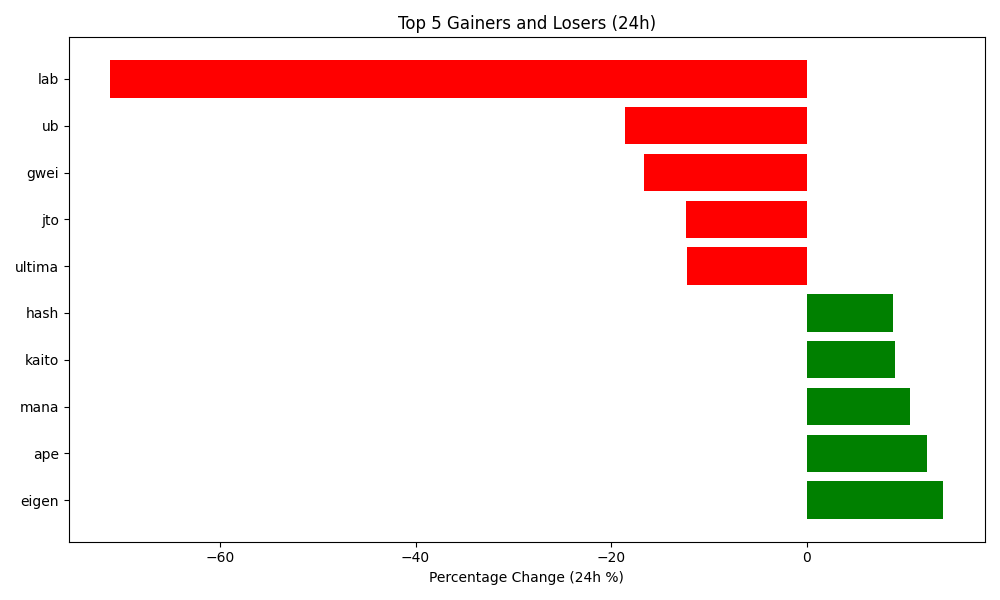
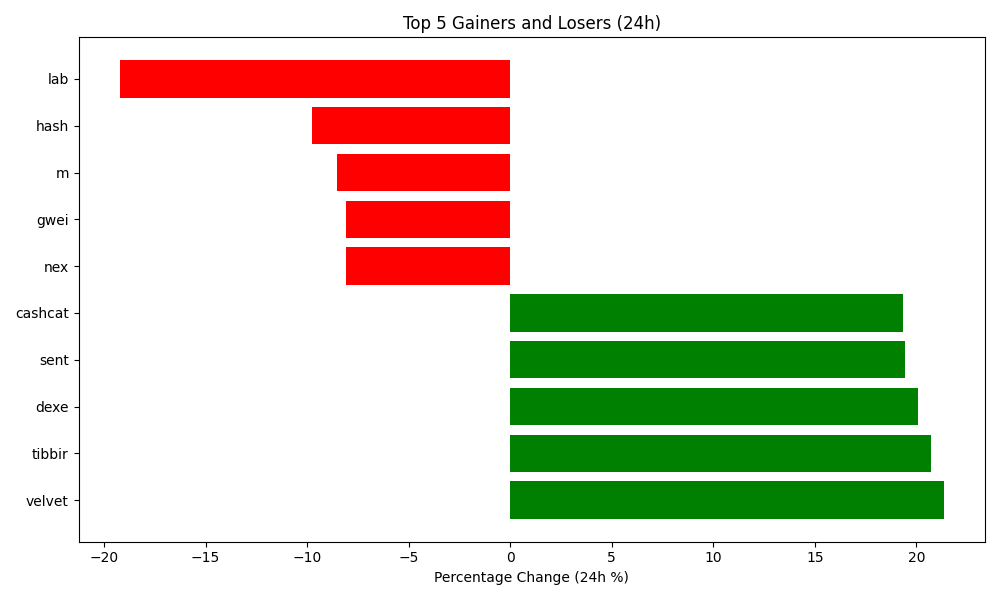
Auto-update crypto data and plot

diff --git a/README.md b/README.md
@@ -4,7 +4,7 @@ Author: Hitesh Agrawal
 This repository automatically tracks the top 5 gaining, top 5 losing, and top 5 highest volume cryptocurrencies in the last 24 hours using the CoinGecko API, Python, Matplotlib, and GitHub Actions updates the below content everyday at midnight.
 
 <!-- START_DYNAMIC_CONTENT -->
-Last updated: 2026-07-09 02:12 UTC
+Last updated: 2026-07-10 02:12 UTC
 
 ![Crypto Movers Plot](crypto_movers_plot.png)
 
@@ -12,33 +12,33 @@ Last updated: 2026-07-09 02:12 UTC
 
 | Rank | Coin | Price Change (24h %) | Volume (USD) | Current Price (USD) |
 | :--: | :--: | :------------------: | :----------: | :-----------------: |
-| 1 | eigen | 13.98% | $42,772,598 | $0.2474 |
-| 2 | ape | 12.34% | $64,869,686 | $0.1625 |
-| 3 | mana | 10.54% | $24,728,272 | $0.0748 |
-| 4 | kaito | 9.03% | $137,992,390 | $0.6693 |
-| 5 | hash | 8.81% | $14,123 | $0.0092 |
+| 1 | velvet | 21.35% | $10,060,548 | $0.4900 |
+| 2 | tibbir | 20.73% | $1,490,367 | $0.1197 |
+| 3 | dexe | 20.07% | $74,136,000 | $34.4500 |
+| 4 | sent | 19.45% | $506,874,777 | $0.0164 |
+| 5 | cashcat | 19.34% | $41,497,512 | $0.1143 |
 
 
 **👇 Top 5 Losers (24h)**
 
 | Rank | Coin | Price Change (24h %) | Volume (USD) | Current Price (USD) |
 | :--: | :--: | :------------------: | :----------: | :-----------------: |
-| 1 | lab | -71.20% | $315,511,706 | $1.3900 |
-| 2 | ub | -18.58% | $10,772,612 | $0.0744 |
-| 3 | gwei | -16.66% | $14,186,649 | $0.0866 |
-| 4 | jto | -12.31% | $82,502,191 | $0.6347 |
-| 5 | ultima | -12.19% | $11,077,362 | $2,311.2000 |
+| 1 | lab | -19.22% | $211,547,416 | $1.1200 |
+| 2 | hash | -9.76% | $13,311 | $0.0083 |
+| 3 | m | -8.52% | $13,536,462 | $1.2200 |
+| 4 | gwei | -8.10% | $6,217,894 | $0.0796 |
+| 5 | nex | -8.10% | $25,720,471 | $0.0000 |
 
 
 **💎 Top 5 by Trade Volume (24h)**
 
 | Rank | Coin | Price Change (24h %) | Volume (USD) | Current Price (USD) |
 | :--: | :--: | :------------------: | :----------: | :-----------------: |
-| 1 | usdt | -0.02% | $43,720,190,555 | $0.9992 |
-| 2 | btc | -1.40% | $26,817,070,999 | $61,996.0000 |
-| 3 | usdc | -0.01% | $11,673,261,019 | $0.9998 |
-| 4 | eth | -0.84% | $9,984,488,190 | $1,736.4700 |
-| 5 | sol | -1.69% | $2,250,869,870 | $77.6000 |
+| 1 | usdt | -0.00% | $40,895,345,830 | $0.9991 |
+| 2 | btc | 2.81% | $27,381,790,833 | $63,753.0000 |
+| 3 | usdc | -0.01% | $11,378,108,130 | $0.9998 |
+| 4 | eth | 1.66% | $7,847,073,530 | $1,765.3500 |
+| 5 | sol | 1.58% | $1,622,204,297 | $78.8500 |
 
 
 <!-- END_DYNAMIC_CONTENT -->
